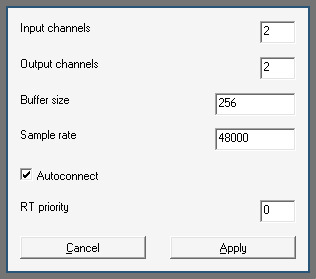
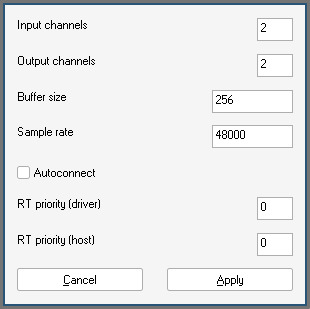
separate driver and host priorities
also ditch module-rt and use the thread we created for everything. might
require way higher priority, hence the separation. also just found out
that pw_stream_trigger_process wasn't doing anything since the stream
can't be a driver if connected to ALSA hardware. the fact that buffers 0
and 1 aren't being flipped is currently depending on a race condition
and i've seen it fail on occasion. might have to roll my own spa node to
get this to behave consistently.

diff --git a/src/pwasio.c b/src/pwasio.c
@@ -59,6 +59,7 @@ WINE_DEFAULT_DEBUG_CHANNEL(pwasio);
 #define KEY_SMPRATE "sample_rate"
 #define KEY_AUTOCON "autoconnect"
 #define KEY_PRIORITY "priority"
+#define KEY_HOST_PRIORITY "host_priority"
 
 #define DEFAULT_N_INPUTS 2
 #define DEFAULT_N_OUTPUTS 2
@@ -92,7 +93,7 @@ struct pwasio {
   char name[MAX_NAME];
   size_t n_inputs, n_outputs, buffer_size, sample_rate;
   bool autoconnect;
-  int priority;
+  int priority, host_priority;
 
   struct spa_thread_utils thread_utils;
   struct thread thread;
@@ -161,7 +162,7 @@ STDMETHODIMP_(ULONG32) Release(struct asio *_data) {
   if (pwasio->loop)
     pw_data_loop_destroy(pwasio->loop);
 
-  if (pwasio->priority) {
+  if (pwasio->host_priority) {
     WINE_TRACE("setting host scheduler to SCHED_OTHER\n");
     pthread_setschedparam(pwasio->thread.host, SCHED_OTHER,
                           &(struct sched_param){.sched_priority = 0});
@@ -184,7 +185,6 @@ static int _swap_buffers(struct spa_loop *, bool, uint32_t, const void *,
   if (pw_data_loop_in_thread(pwasio->loop))
     pwasio->callbacks->swap_buffers(pwasio->idx, true);
   pwasio->idx = !pwasio->idx;
-  pw_stream_trigger_process(pwasio->output);
   return 0;
 }
 static void _input_process(void *_data) {
@@ -290,6 +290,8 @@ STDMETHODIMP_(LONG32) Init(struct asio *_data, void *) {
     pwasio->sample_rate = get_dword(config, KEY_SMPRATE, DEFAULT_SMPRATE);
     pwasio->autoconnect = get_dword(config, KEY_AUTOCON, DEFAULT_AUTOCON);
     pwasio->priority = get_dword(config, KEY_PRIORITY, DEFAULT_PRIORITY);
+    pwasio->host_priority =
+        get_dword(config, KEY_HOST_PRIORITY, DEFAULT_PRIORITY);
 #undef get_dword
     RegCloseKey(config);
   } else {
@@ -300,21 +302,25 @@ STDMETHODIMP_(LONG32) Init(struct asio *_data, void *) {
     pwasio->sample_rate = DEFAULT_SMPRATE;
     pwasio->autoconnect = DEFAULT_AUTOCON;
     pwasio->priority = DEFAULT_PRIORITY;
+    pwasio->host_priority = DEFAULT_PRIORITY;
   }
 
   WINE_TRACE("starting pwasio\n");
   pwasio->thread.host = pthread_self();
-  if (pwasio->priority) {
+  if (pwasio->priority || pwasio->host_priority) {
     struct rlimit rl;
-    WINE_TRACE("setting host scheduler to SCHED_FIFO with priority %d\n",
-               pwasio->priority - 1);
     if (getrlimit(RLIMIT_RTPRIO, &rl) || rl.rlim_max < 1 ||
-        !(rl.rlim_cur = pwasio->priority) || setrlimit(RLIMIT_RTPRIO, &rl) ||
-        pthread_setschedparam(
-            pwasio->thread.host, SCHED_FIFO,
-            &(struct sched_param){.sched_priority = pwasio->priority - 1})) {
+        !(rl.rlim_cur = SPA_MAX(pwasio->priority, pwasio->host_priority)) ||
+        setrlimit(RLIMIT_RTPRIO, &rl))
       pwasio_err(ASIO_ERROR_INVALID_MODE,
                  "unable to get realtime privileges: %s\n", strerror(errno));
+    if (pwasio->host_priority) {
+      WINE_TRACE("setting host scheduler to SCHED_FIFO with priority %d\n",
+                 pwasio->host_priority);
+      if (pthread_setschedparam(
+              pwasio->thread.host, SCHED_FIFO,
+              &(struct sched_param){.sched_priority = pwasio->priority - 1}))
+        WINE_ERR("unable to set host realtime priority\n");
     }
   }
 
@@ -661,8 +667,7 @@ CreateBuffers(struct asio *_data, struct asio_buffer_info *channels,
       info->buf[b] = pwasio->buffer + p->offset[b];
   }
 
-  enum pw_stream_flags flags =
-      PW_STREAM_FLAG_ALLOC_BUFFERS | PW_STREAM_FLAG_RT_PROCESS;
+  enum pw_stream_flags flags = PW_STREAM_FLAG_ALLOC_BUFFERS;
   if (pwasio->autoconnect)
     flags |= PW_STREAM_FLAG_AUTOCONNECT;
   char buf[1024];
@@ -690,7 +695,6 @@ CreateBuffers(struct asio *_data, struct asio_buffer_info *channels,
       goto cleanup;
     }
   }
-  // flags |= PW_STREAM_FLAG_TRIGGER;
   {
     struct spa_pod_builder b = SPA_POD_BUILDER_INIT(buf, sizeof buf);
     const struct spa_pod *params[] = {
@@ -772,7 +776,7 @@ STDMETHODIMP_(LONG32) DisposeBuffers(struct asio *_data) {
 struct cfg {
   size_t n_inputs, n_outputs, buffer_size, sample_rate;
   bool autoconnect;
-  int priority;
+  int priority, host_priority;
   bool reset;
 };
 static INT_PTR CALLBACK _panel_func(HWND hWnd, UINT uMsg, WPARAM wParam,
@@ -790,6 +794,7 @@ static INT_PTR CALLBACK _panel_func(HWND hWnd, UINT uMsg, WPARAM wParam,
     CheckDlgButton(hWnd, IDC_AUTOCON,
                    cfg->autoconnect ? BST_CHECKED : BST_UNCHECKED);
     SetDlgItemInt(hWnd, IDE_PRIORITY, cfg->priority, false);
+    SetDlgItemInt(hWnd, IDE_HOST_PRIORITY, cfg->host_priority, false);
     break;
   case WM_COMMAND:
     switch (LOWORD(wParam)) {
@@ -828,9 +833,15 @@ static INT_PTR CALLBACK _panel_func(HWND hWnd, UINT uMsg, WPARAM wParam,
       cfg->autoconnect = val;
 
       val = GetDlgItemInt(hWnd, IDE_PRIORITY, &conv, true);
-      if (conv && val >= 0 && val != 1) {
+      if (conv && val >= 0) {
         cfg->reset = cfg->reset || val != cfg->priority;
         cfg->priority = val;
+      }
+
+      val = GetDlgItemInt(hWnd, IDE_HOST_PRIORITY, &conv, true);
+      if (conv && val >= 0) {
+        cfg->reset = cfg->reset || val != cfg->host_priority;
+        cfg->host_priority = val;
       }
     case IDCANCEL:
       DestroyWindow(hWnd);
@@ -856,6 +867,7 @@ static DWORD WINAPI _panel_thread(LPVOID p) {
       .sample_rate = pwasio->sample_rate,
       .autoconnect = pwasio->autoconnect,
       .priority = pwasio->priority,
+      .host_priority = pwasio->host_priority,
   };
   if (!(pwasio->dialog = CreateDialogParamA(pwasio->hinst,
                                             (LPCSTR)MAKEINTRESOURCE(IDD_PANEL),
@@ -901,6 +913,9 @@ static DWORD WINAPI _panel_thread(LPVOID p) {
     if (cfg.priority != pwasio->priority)
       CHK(RegSetValueExA(config, KEY_PRIORITY, 0, REG_DWORD,
                          (BYTE *)&(DWORD){cfg.priority}, sizeof(DWORD)));
+    if (cfg.host_priority != pwasio->host_priority)
+      CHK(RegSetValueExA(config, KEY_HOST_PRIORITY, 0, REG_DWORD,
+                         (BYTE *)&(DWORD){cfg.host_priority}, sizeof(DWORD)));
 
     if (pwasio->callbacks && pwasio->callbacks->message)
       pwasio->callbacks->message(ASIO_MESSAGE_RESET_REQUEST, 0, nullptr,
@@ -980,7 +995,7 @@ static int _acquire_rt(void *_data, struct spa_thread *, int priority) {
   struct pwasio *pwasio = _data;
   int err = 0;
   if (pwasio->priority && priority == -1) {
-    WINE_TRACE("setting thread scheduler to SCHED_FIFO with priority %d\n",
+    WINE_TRACE("setting driver scheduler to SCHED_FIFO with priority %d\n",
                pwasio->priority);
     if ((err = pthread_setschedparam(
              pwasio->thread.tid, SCHED_FIFO,
@@ -992,7 +1007,7 @@ static int _acquire_rt(void *_data, struct spa_thread *, int priority) {
 static int _drop_rt(void *_data, struct spa_thread *) {
   struct pwasio *pwasio = _data;
   if (pwasio->priority) {
-    WINE_TRACE("setting thread scheduler to SCHED_OTHER\n");
+    WINE_TRACE("setting driver scheduler to SCHED_OTHER\n");
     int err;
     if ((err =
              pthread_setschedparam(pwasio->thread.tid, SCHED_OTHER,

diff --git a/src/resource.h b/src/resource.h
@@ -6,3 +6,4 @@
 #define IDE_SMPRATE 1004
 #define IDC_AUTOCON 1005
 #define IDE_PRIORITY 1006
+#define IDE_HOST_PRIORITY 1007

diff --git a/README.md b/README.md
@@ -77,16 +77,18 @@ the specific configuration. Setting these to values not supported by your
 hardware might incur overhead.
 
 #### RT priority
-Defaults to zero which gives default thread scheduling. Setting this to >= 2
-will give the host and the driver realtime scheduling, which may be necessary to
-achieve lower latencies. The user must have realtime privileges. The value sets
-the `SCHED_FIFO` priority for the driver, and the host audio thread receives a
-priority of one less than what is configured (hence the minimum value nonzero
-value of 2). It has been found that a small nonzero value can induce instability
-in some hosts, so increase it accordingly if necessary.
+Both to zero which gives default thread scheduling. Setting the respective
+fields to > 0 will give the driver and host realtime scheduling, which may be
+necessary to achieve lower latencies. The user must have realtime privileges.
+We use `SCHED_FIFO` scheduling with the given priority. For reference, the
+default PipeWire configuration at the time of writing would use a value of 88 in
+the "driver" RT priority. It has been found that a small nonzero value for host
+priority can induce instability, so increase it accordingly if necessary.
 
 ### Change Log
 
+#### 0.0.2
+* 24/12/2025: Separate driver and host realtime priorities (GG)
 #### 0.0.1
 * 20/12/2025: Get timestamp in `input_process` (GG)
 * 02/12/2025: Improved logging (GG)
